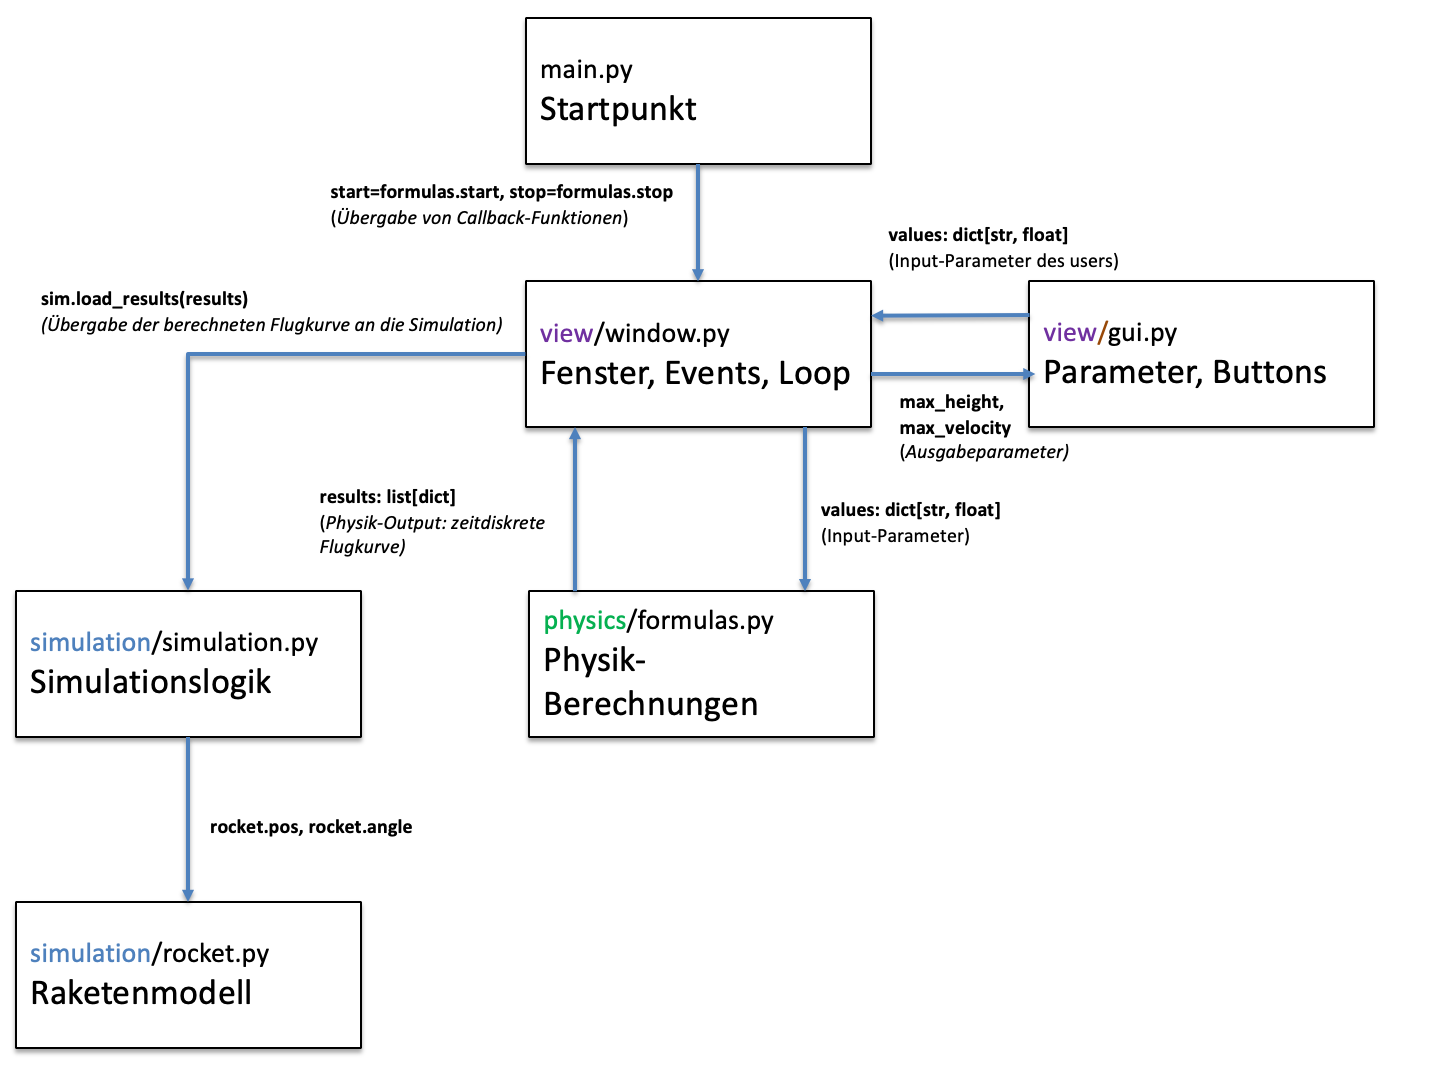
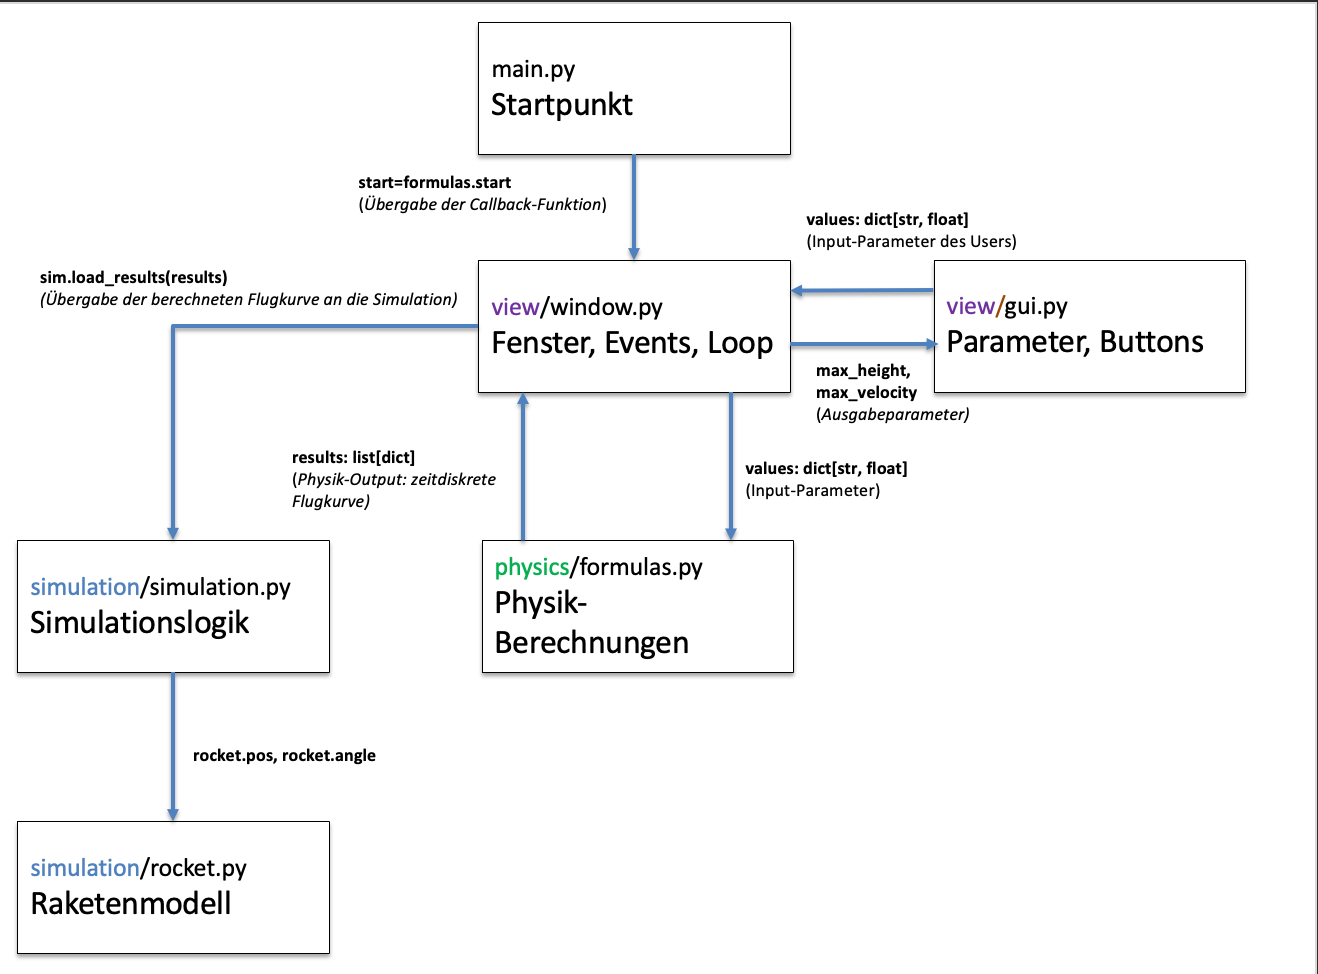
(-) start function

diff --git a/doc/report/Wasserrakete.tex b/doc/report/Wasserrakete.tex
@@ -189,7 +189,7 @@ Der gesamte Datenfluss zwischen diesen Komponenten ist in Abbildung~\ref{fig:arc
 
 \paragraph{Controller}
 Der Einstiegspunkt des Programms ist \texttt{main.py}. 
-Hier werden die Funktionsobjekte \texttt{start} und \texttt{stop} aus 
+Hier wird das Funktionsobjekt \texttt{start} aus 
 \texttt{formulas.py} an die Fensterlogik \texttt{window.py} übergeben. 
 Weitere Berechnungen oder Datenverarbeitungen finden an dieser Stelle nicht statt.
 